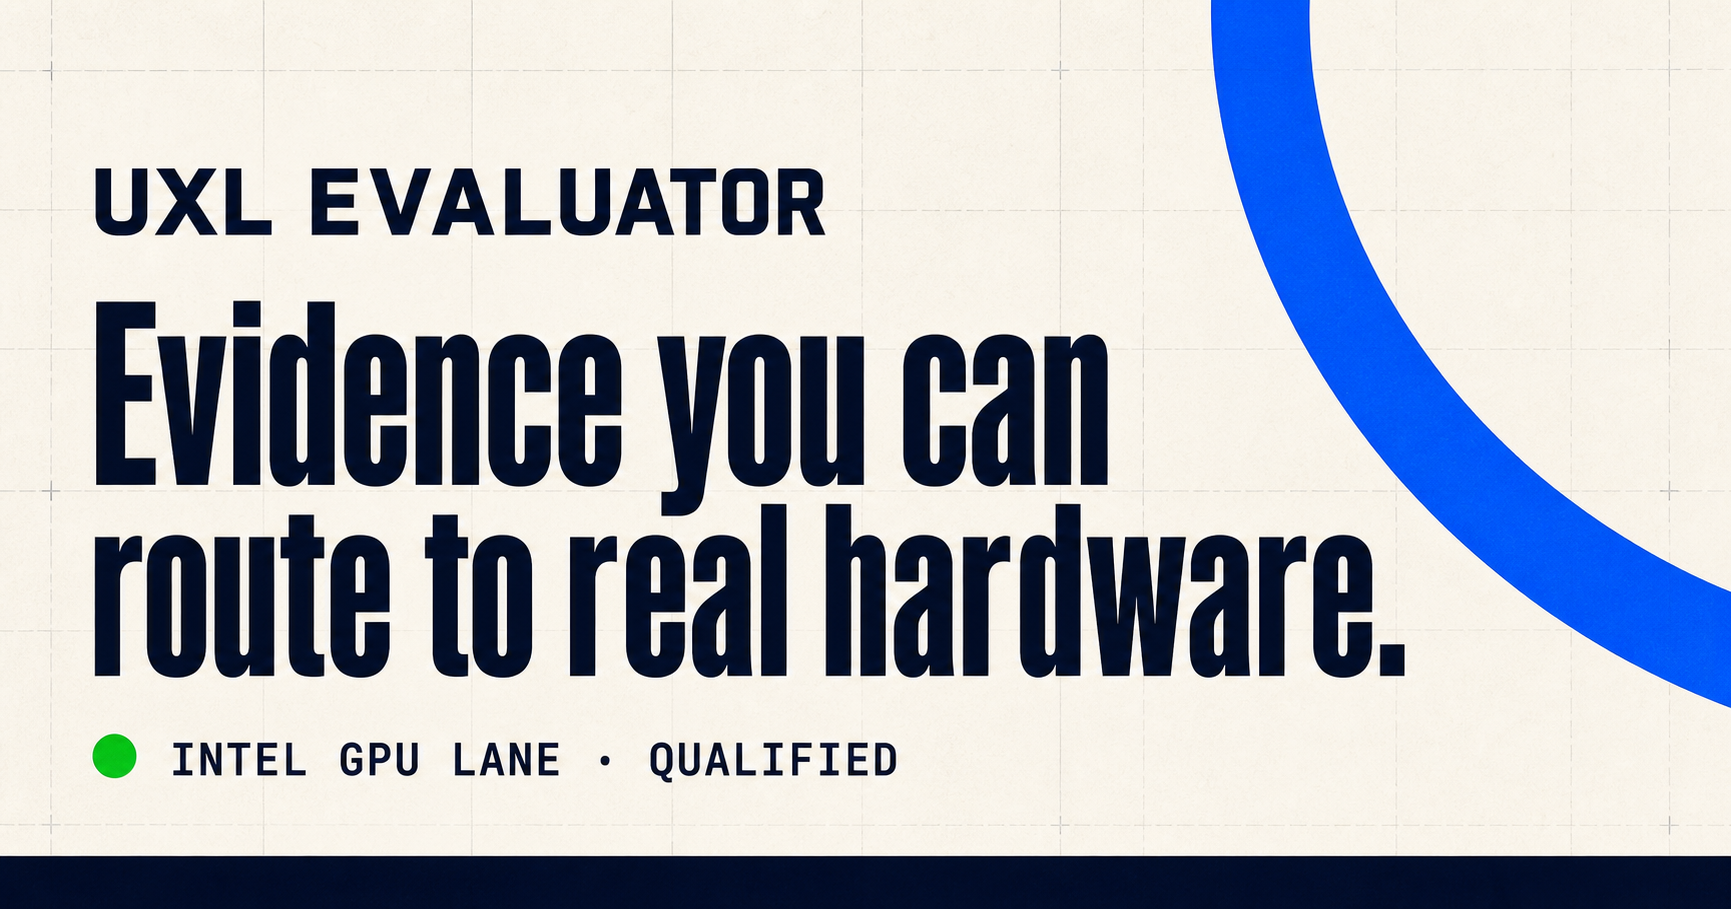
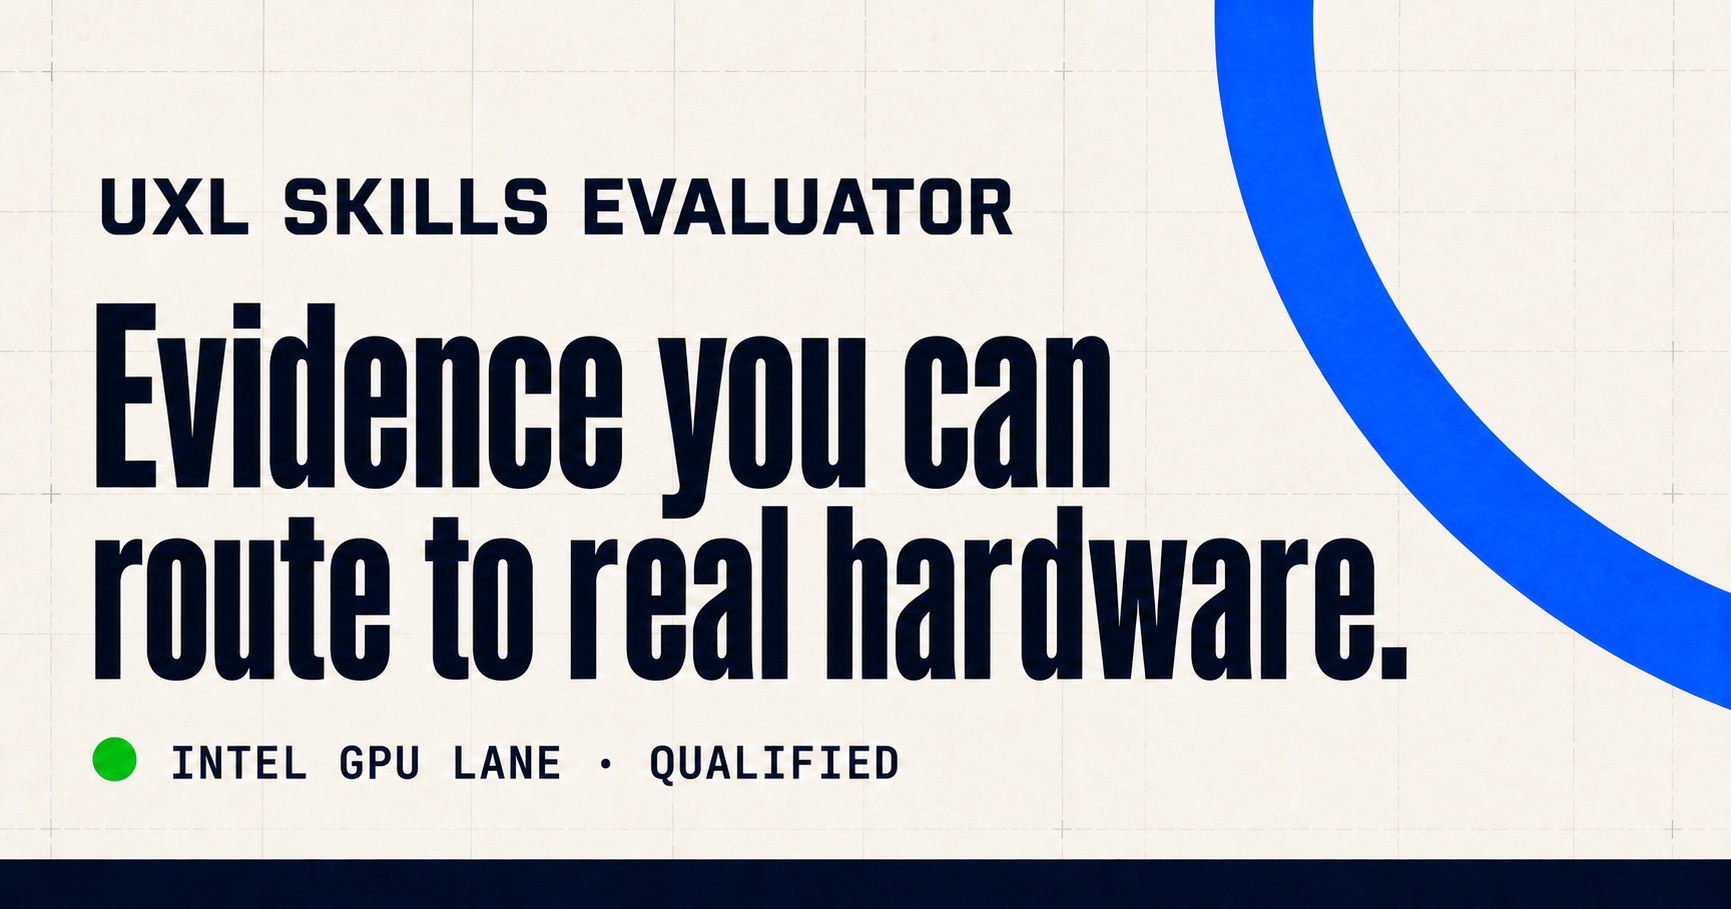
Brand dashboard as UXL Skills Evaluator

diff --git a/evaluation/dashboard/app/page.tsx b/evaluation/dashboard/app/page.tsx
@@ -27,7 +27,12 @@ export default function Home() {
   return (
     <main>
       <nav>
-        <a className="brand" href="#top" aria-label="UXL evaluator home">UXL<span>/</span>EVAL</a>
+        <a className="brand" href="#top" aria-label="UXL Skills Evaluator home">
+          {/* The official SVG is tiny and must keep its relative GitHub Pages path. */}
+          {/* eslint-disable-next-line @next/next/no-img-element */}
+          <img src="uxl-foundation-icon-color.svg" alt="" aria-hidden="true" />
+          <span className="brand-name">UXL Skills Evaluator</span>
+        </a>
         <div className="nav-links">
           <a href="#coverage">Coverage</a>
           <a href="#lanes">Runners</a>
@@ -37,7 +42,7 @@ export default function Home() {
       </nav>
 
       <section className="hero" id="top">
-        <div className="eyebrow"><span /> UXL evaluator control room</div>
+        <div className="eyebrow"><span /> UXL Skills Evaluator</div>
         <h1>Evidence you can<br />route to real hardware.</h1>
         <p className="lede">
           One view of skill quality, execution coverage, and specialized runner
@@ -136,7 +141,16 @@ export default function Home() {
         </ol>
       </section>
 
-      <footer><div className="brand">UXL<span>/</span>EVAL</div><p>Public scorecard. Detailed trajectories and machine evidence remain access-controlled.</p><a href="#top">Back to top ↑</a></footer>
+      <footer>
+        <div className="brand">
+          {/* The official SVG is tiny and must keep its relative GitHub Pages path. */}
+          {/* eslint-disable-next-line @next/next/no-img-element */}
+          <img src="uxl-foundation-icon-color.svg" alt="" aria-hidden="true" />
+          <span className="brand-name">UXL Skills Evaluator</span>
+        </div>
+        <p>Public scorecard. Detailed trajectories and machine evidence remain access-controlled.</p>
+        <a href="#top">Back to top ↑</a>
+      </footer>
     </main>
   );
 }

diff --git a/evaluation/dashboard/app/globals.css b/evaluation/dashboard/app/globals.css
@@ -7,8 +7,9 @@ body { margin:0; background:linear-gradient(90deg,transparent 49.92%,rgba(16,21,
 a { color:inherit; text-decoration:none; }
 main { min-height:100vh; }
 nav { height:76px; padding:0 clamp(28px,7vw,112px); display:flex; align-items:center; justify-content:space-between; border-bottom:1px solid var(--line); position:relative; z-index:3; }
-.brand { font-size:18px; font-weight:800; letter-spacing:-.04em; }
-.brand span { color:var(--blue); }
+.brand { display:inline-flex; align-items:center; gap:10px; font-size:16px; font-weight:800; letter-spacing:-.035em; }
+.brand img { width:30px; height:32px; object-fit:contain; flex:none; }
+.brand-name { white-space:nowrap; }
 .nav-links { display:flex; align-items:center; gap:30px; font-size:13px; }
 .source-link { color:white; background:var(--ink); padding:12px 16px; }
 .hero { min-height:calc(66vh - 76px); padding:48px clamp(28px,7vw,112px) 52px; position:relative; overflow:hidden; }
@@ -73,6 +74,7 @@ h2 { margin:12px 0 60px; font-size:clamp(36px,4vw,60px); line-height:1; letter-s
 .done li b { margin-top:42px; font-size:19px; }
 .done li p { color:var(--muted); line-height:1.5; font-size:14px; }
 footer { min-height:130px; padding:34px clamp(28px,7vw,112px); display:grid; grid-template-columns:1fr 2fr 1fr; align-items:center; background:var(--paper); }
+footer .brand img { width:27px; height:29px; }
 footer p { color:var(--muted); font-size:12px; text-align:center; }
 footer > a { text-align:right; color:var(--blue); font-size:13px; }
 

diff --git a/evaluation/dashboard/app/layout.tsx b/evaluation/dashboard/app/layout.tsx
@@ -6,8 +6,8 @@ const geistSans = Geist({ variable: "--font-geist-sans", subsets: ["latin"] });
 const geistMono = Geist_Mono({ variable: "--font-geist-mono", subsets: ["latin"] });
 
 const siteUrl = "https://uxlfoundation.github.io/skills";
-const title = "UXL Evaluator Control Room";
-const description = "Evidence-backed UXL skill evaluation across hosted and specialized hardware runners.";
+const title = "UXL Skills Evaluator";
+const description = "Evidence-backed evaluation of UXL Foundation agent skills across hosted and specialized hardware runners.";
 
 export const metadata: Metadata = {
   metadataBase: new URL(siteUrl),

diff --git a/evaluation/dashboard/README.md b/evaluation/dashboard/README.md
@@ -1,4 +1,4 @@
-# UXL Evaluator Dashboard
+# UXL Skills Evaluator Dashboard
 
 Public-facing control-room view for the UXL Foundation skills evaluator. It shows the current skill and Harbor-task inventory, available execution lanes, the evidence chain for the Windows/WSL Intel GPU lane, and the project definition of done.
 
@@ -31,6 +31,8 @@ npm test
 The public dashboard is published at <https://uxlfoundation.github.io/skills/> with GitHub Pages. The repository workflow builds this directory on a GitHub-hosted runner, verifies the static export, and deploys it after changes reach `main`. Pull requests run the same build and checks without publishing.
 
 Pages receives only `dist/client`. Keep raw Harbor records, runner logs, credentials, and unsanitized machine provenance out of the dashboard source and public build.
+
+The navigation and footer use the official color icon from the [UXL Foundation artwork repository](https://github.com/uxlfoundation/artwork/blob/main/foundation/uxl-foundation-icon-color.svg). UXL marks remain subject to the Linux Foundation trademark policy referenced by that repository.
 
 ## Evidence model
 

diff --git a/docs/runner/windows-wsl-intel-gpu-runner-handoff.md b/docs/runner/windows-wsl-intel-gpu-runner-handoff.md
@@ -127,7 +127,7 @@ The consolidated dispatcher and public runner implementation passed end to end i
 - GitHub runner: Linux x64 runner inside WSL, repository-scoped and ephemeral.
 - Harbor evaluator: Windows/WSL task passed with complete artifact retention.
 - Harbor `0.20.0`: pinned in CI and installed in an isolated WSL operator environment.
-- Dashboards: local detailed Harbor views plus the sanitized public [UXL evaluator control room](https://uxlfoundation.github.io/skills/), built from public UXL source and deployed by GitHub Pages.
+- Dashboards: local detailed Harbor views plus the sanitized public [UXL Skills Evaluator](https://uxlfoundation.github.io/skills/), built from public UXL source and deployed by GitHub Pages.
 - Native-Linux qualification: still not applicable to this machine.
 
 ## Artifacts in the preparation workspace

diff --git a/docs/runner/personal-intel-gpu-runner-codex-prompt.md b/docs/runner/personal-intel-gpu-runner-codex-prompt.md
@@ -1,4 +1,4 @@
-# Codex handoff: prepare a personal Intel GPU machine as a UXL evaluator runner
+# Codex handoff: prepare a personal Intel GPU machine as a UXL Skills Evaluator runner
 
 Copy everything below the separator into Codex on the personal Intel GPU machine.
 
